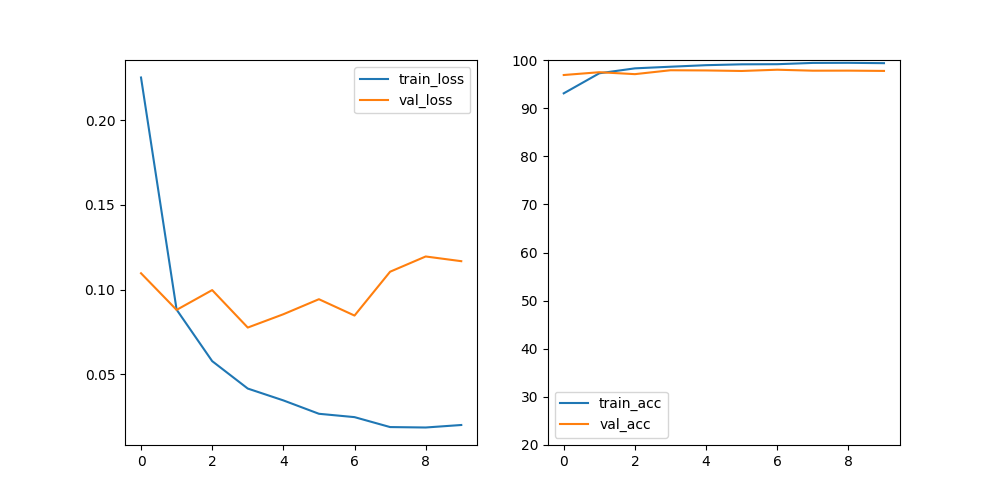
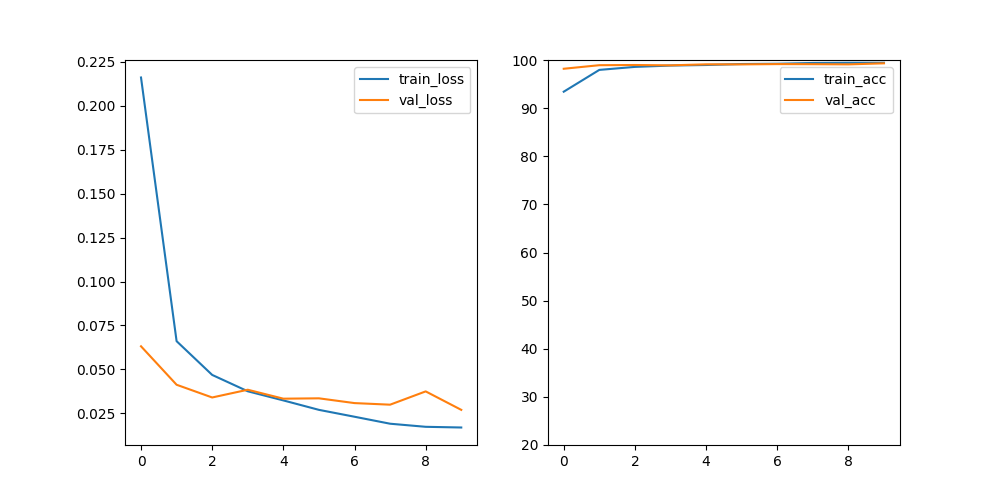
feat: cnn

diff --git a/Homework/01-MNIST-Recognition/mnist_mlp_template.py b/Homework/01-MNIST-Recognition/mnist_mlp_template.py
@@ -66,25 +66,24 @@ class MNISTDataset(Dataset):  # 继承Dataset类
 class Net(nn.Module):
     def __init__(self):
         super(Net, self).__init__()
-        self.fc1 = nn.Linear(784, 800)
-        self.dropout1 = nn.Dropout(0.5)
-        self.fc2 = nn.Linear(800, 800)
-        self.dropout2 = nn.Dropout(0.5)
-        self.fc3 = nn.Linear(800, 10)
+        self.conv1 = nn.Conv2d(1, 32, kernel_size=5)
+        self.conv2 = nn.Conv2d(32, 64, kernel_size=5)
+        self.dropout1 = nn.Dropout(0.2)
+        self.fc3 = nn.Linear(1024, 128)
+        self.dropout2 = nn.Dropout(0.2)
+        self.fc4 = nn.Linear(128, 10)
 
     def forward(self, x):
-        x = x.view(-1, 784)
-
-        x = F.relu(self.fc1(x))
-
+        x = x.view(-1, 1, 28, 28)
+        # print(x.shape)
+        x = F.relu(F.max_pool2d(self.conv1(x), 2))
+        x = F.relu(F.max_pool2d(self.conv2(x), 2))
         x = self.dropout1(x)
-
-        x = F.relu(self.fc2(x))
-
+        x = x.view(-1, 1024)
+        x = F.relu(self.fc3(x))
         x = self.dropout2(x)
-
-        x = self.fc3(x)
-
+        x = self.fc4(x)
+        # print(x.shape)
         return F.log_softmax(x, dim=1)
 
 
@@ -117,7 +116,9 @@ for epoch in range(EPOCHS):
     correct_train = 0
 
     # 加入 tqdm 进度条
-    train_loader_bar = tqdm(train_loader, desc="Training".ljust(20),bar_format="{l_bar:20}{bar:40}{r_bar}")
+    train_loader_bar = tqdm(
+        train_loader, desc="Training".ljust(20), bar_format="{l_bar:20}{bar:40}{r_bar}"
+    )
     for batch_idx, (data, target) in enumerate(train_loader_bar):
         data, target = data.to(device="cuda"), target.to(device="cuda")
         optimizer.zero_grad()  # 梯度清零
@@ -143,7 +144,9 @@ for epoch in range(EPOCHS):
     val_loss = []
     correct = 0
 
-    val_loader_bar = tqdm(val_loader, desc="Validation".ljust(20),bar_format="{l_bar}{bar:40}{r_bar}")
+    val_loader_bar = tqdm(
+        val_loader, desc="Validation".ljust(20), bar_format="{l_bar}{bar:40}{r_bar}"
+    )
     with torch.no_grad():
         for data, target in val_loader_bar:
             data, target = data.to(device="cuda"), target.to(device="cuda")

diff --git a/Homework/01-MNIST-Recognition/adam.md b/Homework/01-MNIST-Recognition/adam.md
@@ -1,0 +1,39 @@
+Training Epoch:1
+Loss: 0.010000      : 100%|████████████████████████████████████████| 782/782 [00:01<00:00, 749.37it/s]
+Val acc: 96.17%     : 100%|████████████████████████████████████████| 157/157 [00:00<00:00, 1713.32it/s]
+
+Training Epoch:2
+Loss: 0.469779      : 100%|████████████████████████████████████████| 782/782 [00:00<00:00, 854.41it/s]
+Val acc: 96.96%     : 100%|████████████████████████████████████████| 157/157 [00:00<00:00, 1726.74it/s]
+
+Training Epoch:3
+Loss: 0.002496      : 100%|████████████████████████████████████████| 782/782 [00:00<00:00, 849.41it/s]
+Val acc: 97.33%     : 100%|████████████████████████████████████████| 157/157 [00:00<00:00, 1740.26it/s]
+
+Training Epoch:4
+Loss: 0.029884      : 100%|████████████████████████████████████████| 782/782 [00:00<00:00, 855.76it/s]
+Val acc: 97.33%     : 100%|████████████████████████████████████████| 157/157 [00:00<00:00, 1726.37it/s]
+
+Training Epoch:5
+Loss: 0.004610      : 100%|████████████████████████████████████████| 782/782 [00:00<00:00, 868.49it/s]
+Val acc: 97.77%     : 100%|████████████████████████████████████████| 157/157 [00:00<00:00, 1724.57it/s]
+
+Training Epoch:6
+Loss: 0.000074      : 100%|████████████████████████████████████████| 782/782 [00:00<00:00, 867.87it/s]
+Val acc: 97.68%     : 100%|████████████████████████████████████████| 157/157 [00:00<00:00, 1730.64it/s]
+
+Training Epoch:7
+Loss: 0.000006      : 100%|████████████████████████████████████████| 782/782 [00:00<00:00, 867.44it/s]
+Val acc: 97.79%     : 100%|████████████████████████████████████████| 157/157 [00:00<00:00, 1722.66it/s]
+
+Training Epoch:8
+Loss: 0.005609      : 100%|████████████████████████████████████████| 782/782 [00:00<00:00, 867.81it/s]
+Val acc: 97.92%     : 100%|████████████████████████████████████████| 157/157 [00:00<00:00, 1727.01it/s]
+
+Training Epoch:9
+Loss: 0.000732      : 100%|████████████████████████████████████████| 782/782 [00:00<00:00, 867.24it/s]
+Val acc: 97.58%     : 100%|████████████████████████████████████████| 157/157 [00:00<00:00, 1726.46it/s]
+
+Training Epoch:10
+Loss: 0.000803      : 100%|████████████████████████████████████████| 782/782 [00:00<00:00, 872.67it/s]
+Val acc: 98.22%     : 100%|████████████████████████████████████████| 157/157 [00:00<00:00, 1700.61it/s]

diff --git a/Homework/01-MNIST-Recognition/cnn.md b/Homework/01-MNIST-Recognition/cnn.md
@@ -1,0 +1,39 @@
+Training Epoch:1
+Loss: 0.090117      : 100%|████████████████████████████████████████| 782/782 [00:01<00:00, 528.35it/s]
+Val acc: 98.27%     : 100%|████████████████████████████████████████| 157/157 [00:00<00:00, 1373.68it/s]
+
+Training Epoch:2
+Loss: 0.001464      : 100%|████████████████████████████████████████| 782/782 [00:01<00:00, 643.20it/s]
+Val acc: 98.70%     : 100%|████████████████████████████████████████| 157/157 [00:00<00:00, 1379.70it/s]
+
+Training Epoch:3
+Loss: 0.010820      : 100%|████████████████████████████████████████| 782/782 [00:01<00:00, 642.08it/s]
+Val acc: 98.72%     : 100%|████████████████████████████████████████| 157/157 [00:00<00:00, 1376.70it/s]
+
+Training Epoch:4
+Loss: 0.008131      : 100%|████████████████████████████████████████| 782/782 [00:01<00:00, 667.62it/s]
+Val acc: 99.09%     : 100%|████████████████████████████████████████| 157/157 [00:00<00:00, 1372.80it/s]
+
+Training Epoch:5
+Loss: 0.003978      : 100%|████████████████████████████████████████| 782/782 [00:01<00:00, 667.79it/s]
+Val acc: 99.03%     : 100%|████████████████████████████████████████| 157/157 [00:00<00:00, 1373.81it/s]
+
+Training Epoch:6
+Loss: 0.162386      : 100%|████████████████████████████████████████| 782/782 [00:01<00:00, 667.83it/s]
+Val acc: 99.18%     : 100%|████████████████████████████████████████| 157/157 [00:00<00:00, 1374.82it/s]
+
+Training Epoch:7
+Loss: 0.042718      : 100%|████████████████████████████████████████| 782/782 [00:01<00:00, 668.45it/s]
+Val acc: 99.23%     : 100%|████████████████████████████████████████| 157/157 [00:00<00:00, 1369.74it/s]
+
+Training Epoch:8
+Loss: 0.005158      : 100%|████████████████████████████████████████| 782/782 [00:01<00:00, 668.53it/s]
+Val acc: 99.12%     : 100%|████████████████████████████████████████| 157/157 [00:00<00:00, 1374.68it/s]
+
+Training Epoch:9
+Loss: 0.001330      : 100%|████████████████████████████████████████| 782/782 [00:01<00:00, 667.40it/s]
+Val acc: 99.24%     : 100%|████████████████████████████████████████| 157/157 [00:00<00:00, 1373.66it/s]
+
+Training Epoch:10
+Loss: 0.001683      : 100%|████████████████████████████████████████| 782/782 [00:01<00:00, 667.32it/s]
+Val acc: 99.29%     : 100%|████████████████████████████████████████| 157/157 [00:00<00:00, 1377.98it/s]

diff --git a/Homework/01-MNIST-Recognition/dropout.md b/Homework/01-MNIST-Recognition/dropout.md
@@ -1,0 +1,39 @@
+Training Epoch:1
+Loss: 0.270231      : 100%|████████████████████████████████████████| 782/782 [00:01<00:00, 683.69it/s]
+Val acc: 96.11%     : 100%|████████████████████████████████████████| 157/157 [00:00<00:00, 1626.23it/s]
+
+Training Epoch:2
+Loss: 0.004919      : 100%|████████████████████████████████████████| 782/782 [00:01<00:00, 781.75it/s]
+Val acc: 97.04%     : 100%|████████████████████████████████████████| 157/157 [00:00<00:00, 1631.30it/s]
+
+Training Epoch:3
+Loss: 0.014936      : 100%|████████████████████████████████████████| 782/782 [00:01<00:00, 769.52it/s]
+Val acc: 97.27%     : 100%|████████████████████████████████████████| 157/157 [00:00<00:00, 1631.61it/s]
+
+Training Epoch:4
+Loss: 0.146281      : 100%|████████████████████████████████████████| 782/782 [00:00<00:00, 785.81it/s]
+Val acc: 97.60%     : 100%|████████████████████████████████████████| 157/157 [00:00<00:00, 1677.58it/s]
+
+Training Epoch:5
+Loss: 0.018636      : 100%|████████████████████████████████████████| 782/782 [00:00<00:00, 817.50it/s]
+Val acc: 97.74%     : 100%|████████████████████████████████████████| 157/157 [00:00<00:00, 1682.51it/s]
+
+Training Epoch:6
+Loss: 0.036393      : 100%|████████████████████████████████████████| 782/782 [00:00<00:00, 817.12it/s]
+Val acc: 97.68%     : 100%|████████████████████████████████████████| 157/157 [00:00<00:00, 1685.27it/s]
+
+Training Epoch:7
+Loss: 0.000153      : 100%|████████████████████████████████████████| 782/782 [00:00<00:00, 816.65it/s]
+Val acc: 97.69%     : 100%|████████████████████████████████████████| 157/157 [00:00<00:00, 1679.63it/s]
+
+Training Epoch:8
+Loss: 0.032144      : 100%|████████████████████████████████████████| 782/782 [00:00<00:00, 818.08it/s]
+Val acc: 97.93%     : 100%|████████████████████████████████████████| 157/157 [00:00<00:00, 1686.43it/s]
+
+Training Epoch:9
+Loss: 0.075004      : 100%|████████████████████████████████████████| 782/782 [00:00<00:00, 818.25it/s]
+Val acc: 97.69%     : 100%|████████████████████████████████████████| 157/157 [00:00<00:00, 1687.16it/s]
+
+Training Epoch:10
+Loss: 0.000330      : 100%|████████████████████████████████████████| 782/782 [00:00<00:00, 817.51it/s]
+Val acc: 98.17%     : 100%|████████████████████████████████████████| 157/157 [00:00<00:00, 1690.23it/s]
